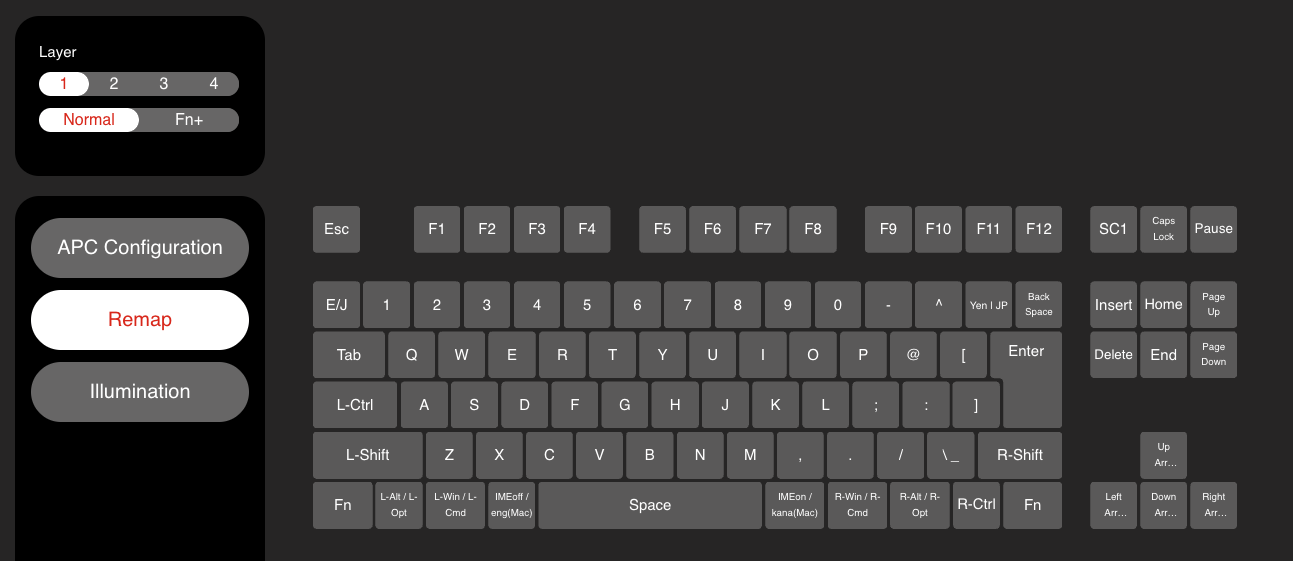
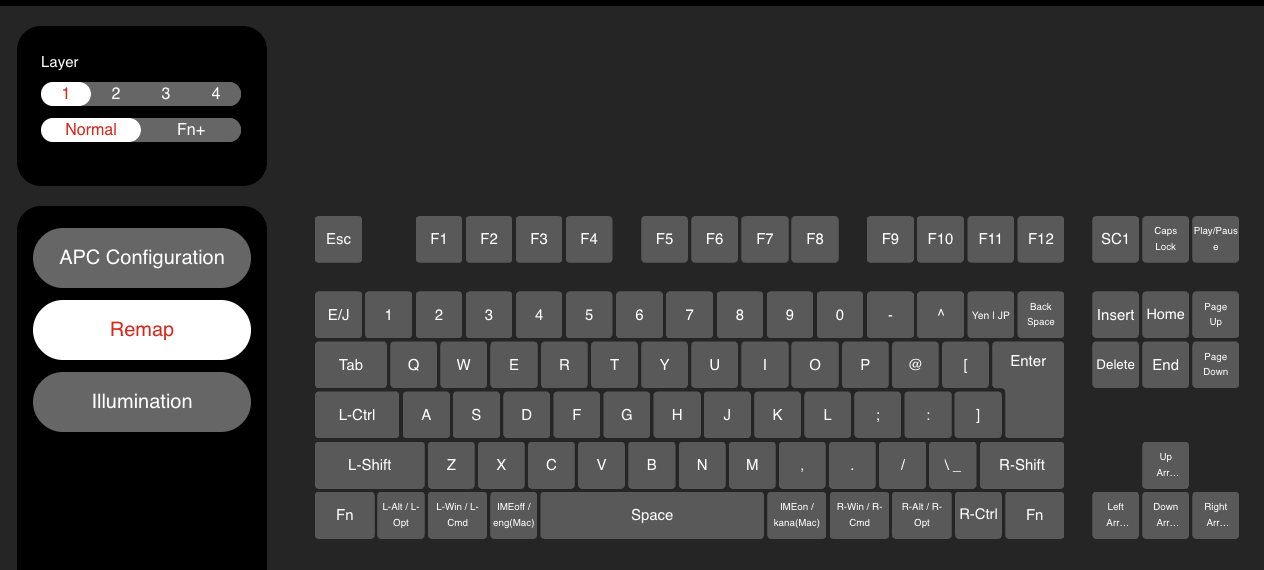
configfiles/realforce-x1p-jp-tkl: Pause is Play/Pause on layer 1
New Normal screenshot of layer 1: the Pause key now sends Play/Pause.
Fn + Pause still sends Pause.

Changed region(s): [[0.0, 0.0, 1.0, 1.0], [0.0, 0.6667, 0.0309, 0.7273], [0.0, 0.5455, 0.0309, 0.6061]]

diff --git a/configfiles/README.md b/configfiles/README.md
@@ -13,4 +13,4 @@ more than one layout, for example one per side of a Mac / Windows switch.
 | [keychron-c2-pro-us-ansi-to-jis](keychron-c2-pro-us-ansi-to-jis/README.md) | Keychron C2 Pro (US ANSI, RGB), VIA | macOS and Windows, one per side of the switch |
 | [hhkb-studio-jis](hhkb-studio-jis/README.md) | HHKB Studio JIS, HHKB Studio Keymap Tool | macOS: the golden layout, with Back / Forward on Fn2 + 英数 / かな; a one-handed option adds ⌘ shortcuts, app and tab switching on Fn2 |
 | [realforce-compact-jis](realforce-compact-jis/README.md) | RealForce Compact (JIS, tenkeyless), Karabiner-Elements | macOS: Control left of A, and カタカナ, ⌥, ⌘, 英数, Space, かな, ⌘, ⌥ along the bottom row; ろ types `\` |
-| [realforce-x1p-jp-tkl](realforce-x1p-jp-tkl/README.md) | REALFORCE X1P JP TKL (JIS, tenkeyless), Topre's configuration tool (screenshots, no export) | macOS and Windows: Fn at both ends of the bottom row, ⌥, ⌘, 英数 / 無変換, Space, かな / 変換, ⌘, ⌥, Control between; Caps Lock in the Scroll Lock position; a cursor cluster, media keys and F1 to F12 on Fn |
+| [realforce-x1p-jp-tkl](realforce-x1p-jp-tkl/README.md) | REALFORCE X1P JP TKL (JIS, tenkeyless), Topre's configuration tool (screenshots, no export) | macOS and Windows: Fn at both ends of the bottom row, ⌥, ⌘, 英数 / 無変換, Space, かな / 変換, ⌘, ⌥, Control between; Caps Lock in the Scroll Lock position, Play/Pause in the Pause position; a cursor cluster, media keys and F1 to F12 on Fn |

diff --git a/configfiles/realforce-x1p-jp-tkl/README.md b/configfiles/realforce-x1p-jp-tkl/README.md
@@ -17,7 +17,7 @@ their canonical names from [KEYNAMES.md](../../conventions/keynames/REV1-2026102
 
 ## Layer 1, Normal
 
-<img alt="Layer 1, Normal, in the REALFORCE configuration tool: a JIS tenkeyless board with Fn at both ends of the bottom row, Caps Lock in the Scroll Lock position and SC1 in the Print Screen position" src="layer1-normal.png">
+<img alt="Layer 1, Normal, in the REALFORCE configuration tool: a JIS tenkeyless board with Fn at both ends of the bottom row, Caps Lock in the Scroll Lock position, SC1 in the Print Screen position and Play/Pause in the Pause position" src="layer1-normal.png">
 
 Every key in the main block types its own legend: Esc, F1 to F12, the number row, the letters, the
 JIS symbol keys (- ^ ¥ @ [ ; : ] , . / ろ), Tab, Enter, Backspace, both Shifts, Space, the
@@ -31,7 +31,7 @@ navigation block and the arrows. Left of A is Control. The keys worth noting:
 | Left of A | `KeyLeftControl` | L-Ctrl |
 | Print Screen | `KeyPrintScreen` | SC1 |
 | Scroll Lock | `KeyScrollLock` | Caps Lock |
-| Pause | `KeyPause` | Pause |
+| Pause | `KeyPause` | Play/Pause (sends `KeyMediaPlayPause`) |
 
 The bottom row, left to right, with what each key sends:
 
